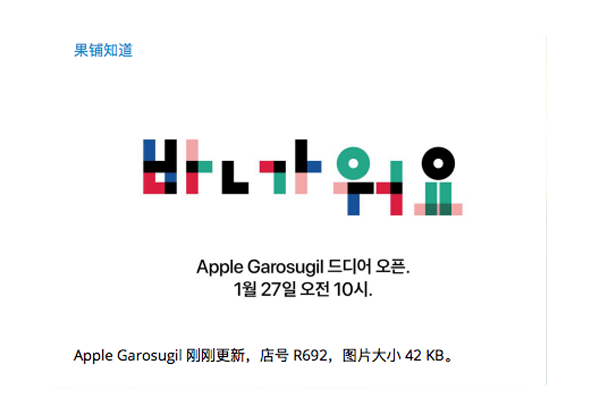
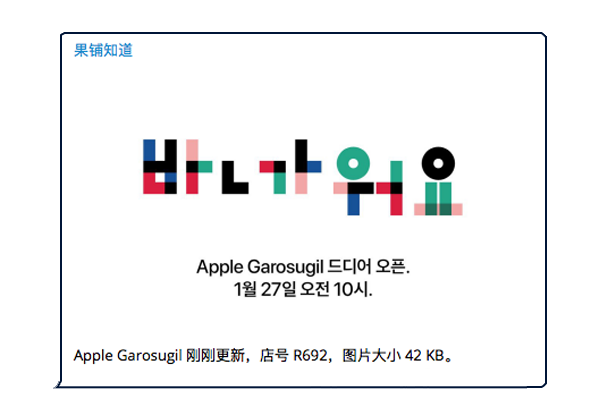
bkP Recreat

Changed region(s): [[0.09, 0.058, 0.9, 0.9565], [0.9, 0.087, 0.93, 0.9275]]

diff --git a/README.md b/README.md
@@ -4,7 +4,7 @@
 
 Workflow
 ===========
-kuaidi20171105.wflow -  iOS App Workflow 快递查询工具，获[少数派](https://sspai.com)推荐。本文件最后更新于 2017 年 11 月 5 日，更新记录见文章底部。![截图](/bkP/wf_relative_alpha.png)
+kuaidi20171105.wflow -  iOS App Workflow 快递查询工具，获[少数派](https://sspai.com)推荐。本文件最后更新于 2017 年 11 月 5 日，更新记录见文章底部。![截图](/bkP/wf_relative_reb.png)
 
 Python
 ===========
@@ -16,7 +16,7 @@ python Kuaidi_IFTTT.py 600316811932 199217929998
 ````
 Python 会自动在 ~ 目录下创建以快递单号命名的 txt 文件。这个 txt 会保存快递公司代号、获取到的数目用于日后比对，以及最后一条物流信息的时间：这是为了避免某些快递公司会出现内容没有变化但是条数莫名其妙的变化。
 
-![截图](/bkP/rtk_alpha.png)
+![截图](/bkP/rtk_reb.png)
 
 快递公司识别使用的是快递 100 的服务，有极小的概率出错或者无法判断（出现 201 或 400 错误），可以手动输入快递公司代号（一般为全拼）并逗号空格。例如「jd, 」，这样就会强制让程序使用京东快递来查询。
 
